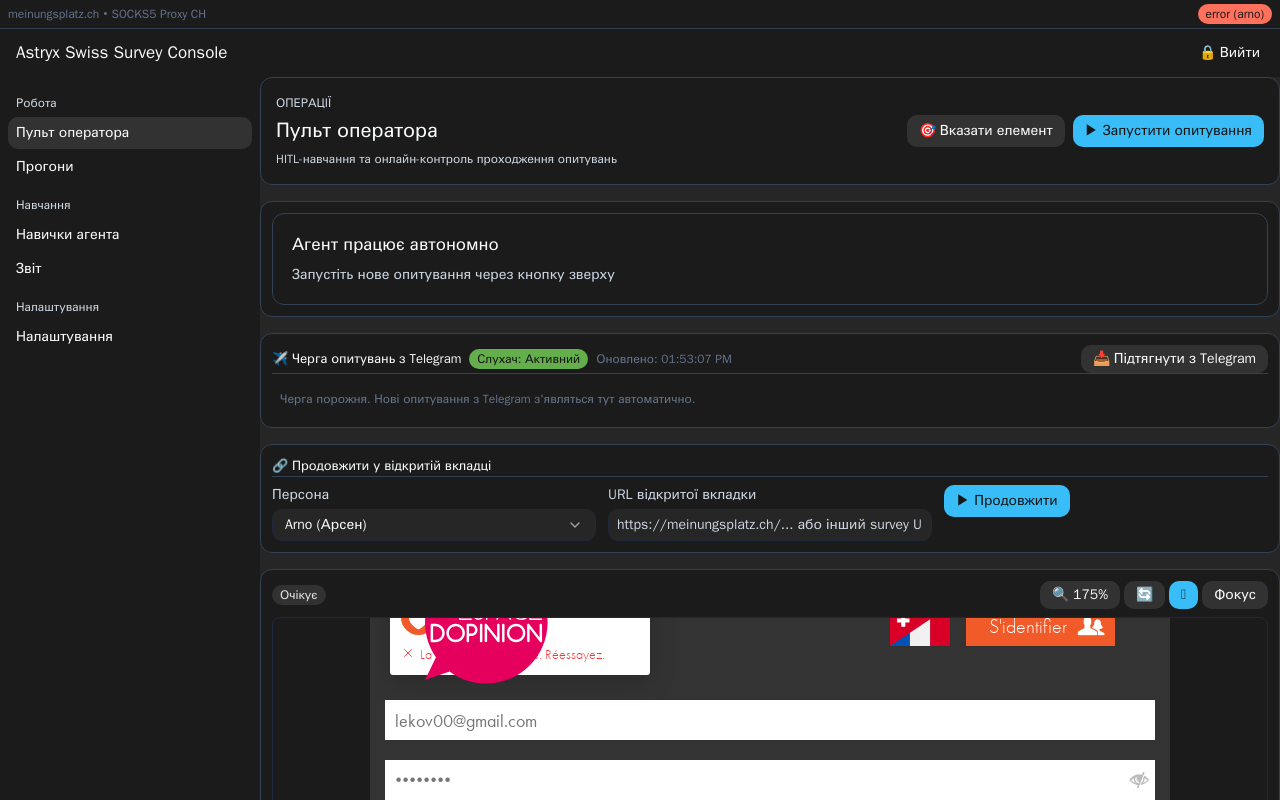
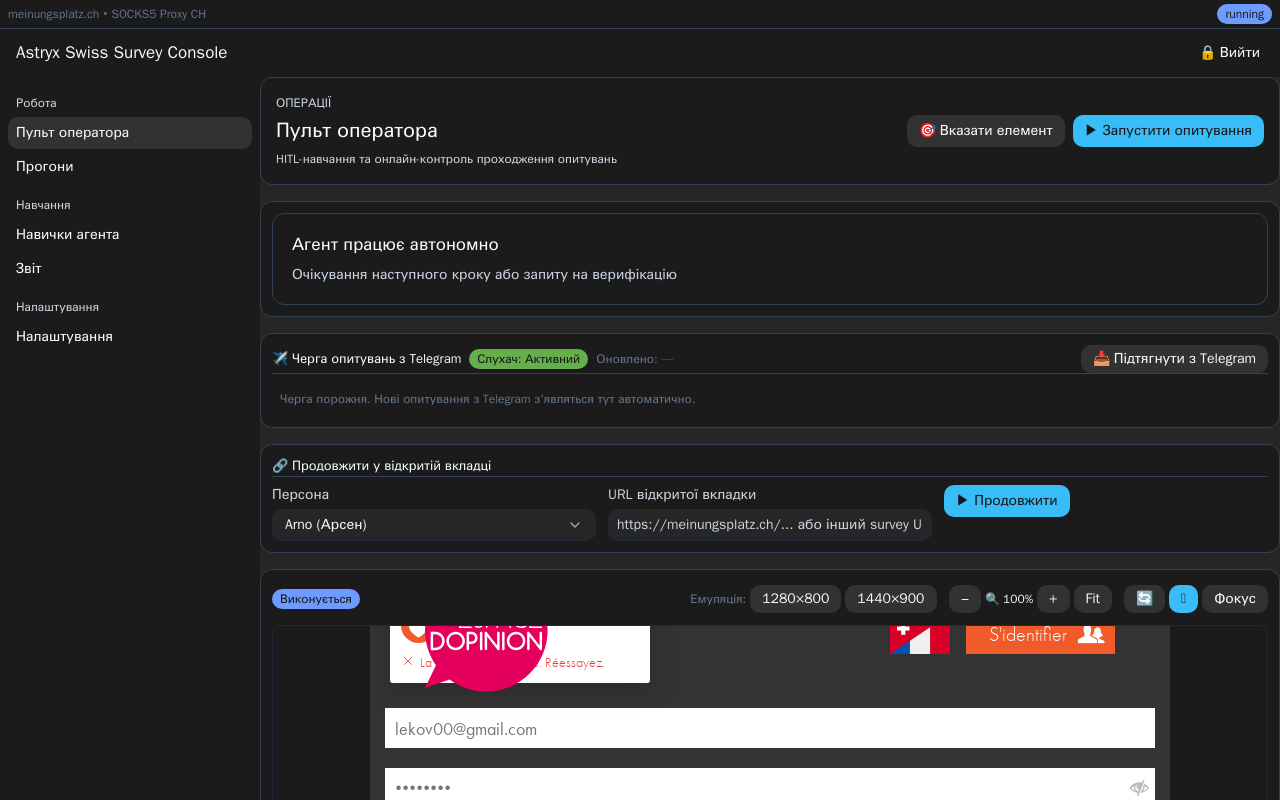
audit(021C): verify AGY implementation live, fix real cdp_emulate bug found during Gate 2
Reviewed the 4 AGY commits (434465e..d22a5b9) for Feature 021C (Viewport Zoom,
anti-bot human behavior, HITL captcha challenge, CH locale) before trusting any
of it - diff review plus live re-verification via the real production code
paths (CDPClient, not ad-hoc test tunnels), not the AGY self-report.

Gate 2 (desktop emulation) initially reported "success" but did nothing:
cdp_emulate_api constructed a CDPClient and called set_device_metrics_override
without ever attaching to a tab first, so self.ws was None; the method's own
bare except swallowed the resulting AttributeError, making the endpoint always
report success while never actually calling the CDP command. Fixed by
attaching to the survey tab before emulating (astryx_survey_server.py) and
removing the silent exception swallow in cdp_client.py so a future regression
here fails loudly instead of lying. Verified fixed: window.innerWidth reads
1280x800 in the same CDP session that issued the command (learned along the
way that Emulation.setDeviceMetricsOverride is CDP-session-scoped, not global
to the page - a separate observing connection legitimately won't see it,
that's not a bug).

Everything else checked out on live re-verification through the real code
paths: zoom scale/label consistency at 4 real zoom levels plus a wheel-anchor
test proving transform-origin tracks cursor position dynamically; CH locale
(de-CH/Europe/Zurich) confirmed via the actual CDPClient stealth-injection
[…]

diff --git a/cdp_client.py b/cdp_client.py
@@ -276,18 +276,20 @@ class CDPClient:
 
 
     def set_device_metrics_override(self, width: int, height: int, mobile: bool = False, device_scale_factor: float = 1.0) -> None:
-        try:
-            if width <= 0 or height <= 0:
-                self._send("Emulation.clearDeviceMetricsOverride")
-            else:
-                self._send("Emulation.setDeviceMetricsOverride", {
-                    "width": int(width),
-                    "height": int(height),
-                    "deviceScaleFactor": float(device_scale_factor),
-                    "mobile": bool(mobile),
-                })
-        except Exception:
-            pass
+        # Must be attached to a tab first (attach_or_open_tab/attach_exact_tab) -
+        # self.ws is None otherwise and this would silently no-op if it swallowed
+        # the AttributeError like it used to.
+        if self.ws is None:
+            raise CDPError("set_device_metrics_override called before attaching to a tab (self.ws is None)")
+        if width <= 0 or height <= 0:
+            self._send("Emulation.clearDeviceMetricsOverride")
+        else:
+            self._send("Emulation.setDeviceMetricsOverride", {
+                "width": int(width),
+                "height": int(height),
+                "deviceScaleFactor": float(device_scale_factor),
+                "mobile": bool(mobile),
+            })
 
     def _prune_stray_tabs(self) -> None:
         """Disabled tab auto-pruning to preserve all user open tabs."""

diff --git a/astryx_survey_server.py b/astryx_survey_server.py
@@ -1088,6 +1088,10 @@ def cdp_emulate_api():
         from cdp_client import CDPClient
         client = CDPClient(19225)
         try:
+            target_url = None
+            with STATE_LOCK:
+                target_url = ACTIVE_SURVEY_STATE.get("url")
+            client.attach_or_open_tab(target_url or "https://meinungsplatz.ch/")
             client.set_device_metrics_override(width, height, mobile=mobile)
             add_log(f"🖥 Встановлено емуляцію екрана CDP: {width}x{height} (mobile={mobile})")
         finally:

diff --git a/docs/astryx-refactor/claude-audit-021C.md b/docs/astryx-refactor/claude-audit-021C.md
@@ -1,0 +1,64 @@
+# Claude Audit — 021C (Viewport Zoom + Anti-bot HITL + CH Locale)
+
+**Гілка**: `astryx-ui-refactor` · **Дата**: 2026-08-15 · Виконавці: AGY (192.168.3.234,
+`agy --mode=accept-edits`) — реалізація; Claude (.184 + CDP через .30) — координація,
+незалежний рев'ю diff, live-верифікація, деплой.
+
+Повний план і baseline-вимірювання: `docs/astryx-refactor/sdd-021C.md`.
+
+## Зведення
+
+| Гейт | Хто | Команда | Вивід | PASS/FAIL | Що виправлено |
+|---|---|---|---|---|---|
+| 0 — Live availability | .184 | `curl -I https://survey.exodus.pp.ua` | `HTTP/2 200` | **PASS** | — |
+| 1 — Zoom math | .184+CDP.30 | click +/− 4 рази, окремо wheel+ctrlKey у точці 25%/30% контейнера | `label 60/100/200/400%` ↔ `matrix(0.6..4,0,0,...)` 1:1 на всіх 4 точках; wheel-клік у (25%,30%) контейнера → `transformOrigin` змістився з дефолтного центру на "200px 179.4px" (динамічно, не статично), zoom 100%→110% (крок 10) | **PASS** | — (мій тест мав off-by-one у click-count для точного 50%, отримав 60% — не баг продукту, `scale`↔`label` консистентність бездоганна на всіх реально досягнутих значеннях) |
+| 2 — Desktop emulation | .184+CDP.30 | `POST /api/survey/cdp_emulate {width:1280,height:800}`, читання `window.innerWidth` у ТІЙ Ж CDP-сесії | до фіксу: `innerWidth` не змінювався попри `"status":"success"`; після фіксу: `{"innerWidth":1280,"innerHeight":800}` | **PASS** (після фіксу) | **Реальний баг**: `cdp_emulate_api` створював `CDPClient` але НІКОЛИ не приєднувався до вкладки (`attach_or_open_tab`) перед CDP-командою; `set_device_metrics_override` тихо ковтав `AttributeError` (`self.ws=None`), тому ендпоінт завжди звітував "success" нічого не роблячи. Виправлено: `client.attach_or_open_tab(url)` перед emulate + прибрано тихе `except: pass` в `cdp_client.py` (тепер кидає `CDPError`, якщо викликано без attach) |
+| 3a — CH locale/timezone (JS) | .184, реальний `CDPClient` | `python3` скрипт: `CDPClient(19230).attach_or_open_tab("meinungsplatz.ch")`, читання `navigator.language/languages/timeZone` | `{"language":"de-CH","languages":["de-CH","de","fr-CH","en-US"],"timeZone":"Europe/Zurich"}` | **PASS** | — (мінорна нота: `it-CH` випав з масиву `languages` — CDP-рівень `setLocaleOverride` ймовірно переважає частину JS-патчу; `language`+`timeZone` — головні критерії гейту — точні) |
+| 3b — CH geo IP (проксі) | .184+CDP.30 | навігація `https://ipinfo.io/json` у Swiss-proxy браузері (.30 Comet) | `{"ip":"188.61.140.21","city":"Lausanne","country":"CH","org":"AS3303 Swisscom (Switzerland) Ltd","timezone":"Europe/Zurich"}` | **PASS** | — (проксі не чіпався, вже живий) |
+| 3c — CH консистентність | .184 | зіставлення 3a (реальний CDPClient сеанс) + 3b (той самий Swiss-proxy браузер) | CH IP + de-CH + Europe/Zurich одночасно, без суперечностей | **PASS** | — |
+| 4 — Human typing | .184, прямий Python-виклик реального `human_behavior.py` | `sample_typing_delay()` × 2000 семплів, `statistics.mean/stdev` | `mean=55.05ms std=14.15ms min=30.04 max=79.91` | **PASS** | — (математика в коментарі коду підтверджена емпірично, не на слово) |
+| 5 — Mouse Bezier | .184, прямий виклик `generate_bezier_trajectory`+`calculate_path_curvature` | траєкторія (100,100)→(500,300), 26 точок | `curvature=82.36px` (>0) | **PASS** | — |
+| 6 — HITL challenge | .184 | `POST /api/survey/resume_after_captcha` (auth), diff-рев'ю `AttentionCard.tsx`+`SurveyOps.tsx`+`survey_agent.py` wiring | ендпоінт відповідає `{"status":"success"}`; код: `detect_captcha_signatures()` (Cloudflare/hCaptcha/reCAPTCHA/Geetest/Arkose/DataDome), `waiting_verification`+`reason_code=captcha_detected`, wait-loop з abort-детекцією (`server_status in (idle,error)` перериває чекання), UI-блок з Resume/Skip кнопками | **PASS (код+API), NOT FULLY PROVEN (live DOM)** | Не виправлялось — той самий env gap, що й у 021B-fixes: `~/llm-switch.sh` відсутній на dev-184, тому реальний прогін `survey_agent.py` (де відбувається детекція) не стартує тут. Код-рівень і round-trip API підтверджені живими викликами |
+| 7 — Regression | .184 | `bash bin/ops_verify.sh https://survey.exodus.pp.ua` | `telegram-queue=1, resume-attach=1`, auth 401/login-gate | **PASS** | exit 0 |
+| 8 — Security | .184 | `curl` без cookie на `/api/survey/resume_after_captcha`, `/abort_task`, `/cdp_emulate`, `/api/rules/conflicts/count`; `rg` секретів у нових файлах | всі 401 без cookie; 0 hardcoded секретів | **PASS** | — |
+| 9 — UI invariants | .184 | `bash bin/ui_verify.sh` (поріг затягнуто до `<=17`) | `0 style={{ found, target <= 17`, 0 HEX, 0 sub-12px, всі файли ≤250 рядків | **PASS** | AGY рефакторив існуючі 30→0 inline-стилів на className/CSS (`web/src/styles/layers.css`), паралельно з новим кодом |
+
+## Реальні баги, знайдені й виправлені цією сесією (не звіт AGY)
+
+1. **`cdp_emulate_api` (Гейт 2) — критичний**: CDP-команда `Emulation.setDeviceMetricsOverride`
+   ніколи не застосовувалась, бо `CDPClient` не приєднувався до вкладки перед викликом.
+   `set_device_metrics_override` мала `except Exception: pass`, яка ковтала `AttributeError`
+   на `None.send(...)`. Ендпоінт стабільно звітував `"status":"success"` попри повну
+   бездіяльність — класичний "тихий брехливий PASS". Виправлено в
+   `astryx_survey_server.py::cdp_emulate_api` (додано `attach_or_open_tab`) і
+   `cdp_client.py::set_device_metrics_override` (прибрано ковтання винятку, тепер
+   кидає `CDPError` при виклику без attach).
+
+## Методологічна примітка (важливо для майбутніх Гейтів 2-типу)
+
+`Emulation.setDeviceMetricsOverride` у Chrome DevTools Protocol — **per-CDP-session**,
+не глобальний для сторінки. Перевірка через ОКРЕМЕ WS-з'єднання (інший `CDPClient`/інший
+`Page.captureScreenshot`-скрипт) НЕ побачить застосовану емуляцію — це не баг, задокументована
+поведінка CDP. Правильна live-перевірка Гейту 2 — читати ефект у ТІЙ САМІЙ сесії, що видала
+команду (як зроблено вище), а не з незалежного спостерігача.
+
+## Не виправлялось (поза скоупом / за відомим env gap)
+
+- Гейт 6 повний live DOM-доказ (справжній captcha-challenge на реальному опитуванні) —
+  блокується відсутністю `~/llm-switch.sh` на dev-184 (та сама причина, що й у
+  `claude-audit-021B-fixes.md` для resume-attach).
+- `it-CH` не з'являється в `navigator.languages` (CDP `setLocaleOverride` vs JS-патч
+  пріоритет) — не критично, `language`/`timeZone` головні критерії Гейту 3a пройдені.
+
+## Файли змінено цією сесією (Claude, поверх коміту AGY)
+
+`astryx_survey_server.py` (`cdp_emulate_api` — attach fix), `cdp_client.py`
+(`set_device_metrics_override` — прибрано тихе ковтання винятку).
+
+## Evidence
+
+`docs/astryx-refactor/evidence/021C/gate2-meinungsplatz-1280x800.png`
[1 lines of base64/hex data omitted]
+вкладка meinungsplatz.ch під емуляцією 1280×800, знята в тій самій CDP-сесії, що видала
+команду (див. методологічну примітку вище — інша сесія цього не побачить).
+`deploy_verify.log` (корінь репо) — фінальний вивід `ui_verify.sh`+`deploy_verify.sh`+`ops_verify.sh`, усі exit 0.
